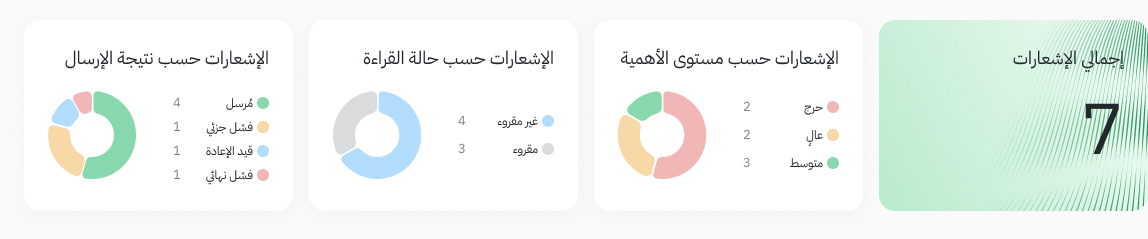
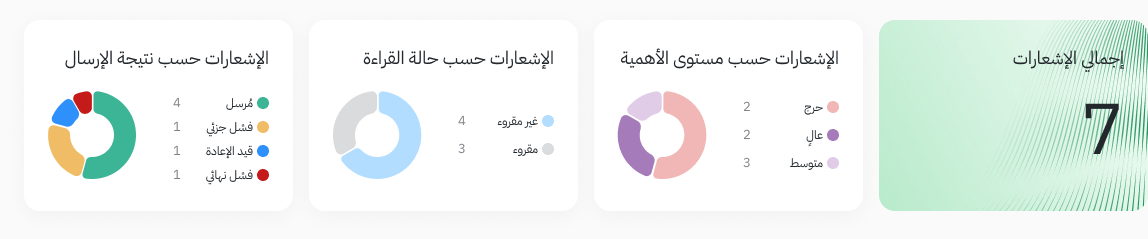
Donut colours: lavender importance scale, dark send-result colours
Claude-Session: https://claude.ai/code/session_01CyctH4WFBszWbBNkvnfQuz

diff --git a/CLAUDE.md b/CLAUDE.md
@@ -168,8 +168,14 @@ All four libraries are published and reachable through `search_design_system`.
     `C-expanded-row.png`. The user edited the cards in v2 meanwhile (now total 7 + two donuts) — leave them.
   - Cards (user, 2026-10-19): a 4th donut «الإشعارات حسب نتيجة الإرسال» was added first in the donut row of A/B/C
     (A `4633:23152` in row `4614:84`, B `4635:23937`, C `4635:23962`; 4 × 269 + 3 × 16 = 1124, all cards 191 tall).
-    It is a clone of the importance donut with DonutChart Data Count=4. The legend reads مُرسل 4 (SA300 #88d8ad) · فشل جزئي 1
-    (straw60 #f6d9a6) · قيد الإعادة 1 (info200 #b2ddff) · فشل نهائي 1 (ruby40 #f1b7b7), which matches the 7 table rows.
+    It is a clone of the importance donut with DonutChart Data Count=4 and matches the 7 table rows (مُرسل 4 · فشل جزئي 1 ·
+    قيد الإعادة 1 · فشل نهائي 1).
+  - Donut colours (user picked option B of `previews/merged-list/G-donut-colors-new-hues.png`; the pastel traffic-light colours
+    clashed with importance): send result uses the dark sub-status dot colours bound to Nusuk variables (mint100 `719e1c7a…`,
+    straw100, Info500 `d2d2dd95…`, ruby100). Importance: حرج stays ruby40 (bound); عالٍ = DGA Foundations Lavender 400 `#a57bba`,
+    متوسط = Lavender 200 `#e1cce8`. These are hex only, because the Foundations primitives can't be imported into this file
+    (key not found). Precedent: the green reference donut «اجمالي انوع البرامج» (`4387:24071`) already uses an unbound purple `#baa5f8`.
+    Read donut unchanged. Table chips for الأهمية are unchanged (حرج red, عالٍ yellow, متوسط green); open question whether to align them.
     The DS segment shapes stay fixed (like the other donuts); the largest one is green for مُرسل, and the tooltip
     percents are 57.1/14.3/14.3/14.3. Preview `previews/merged-list/D-cards-send-result.png`.
   - Pattern search (user asked where hover/expand exist): tooltips exist only on charts (green «View List» `4387:24000`/`4393:15632`,
